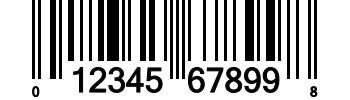
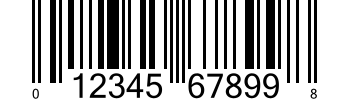
Fixes issue #1 - Upgrade SixLabors.ImageSharp (#2)
* Fixes issue #1 - Upgrade SixLabors.ImageSharp
There are some behavior differences with the newer version of ImageSharp which appears to implement the Pen differently when drawing text.
Removing the Pen instance fixes the drawing difference, though older images may appear more bold.

* removed .net8.0 build requirement, .net6 is the minimum required.

Changed region(s): [[0.1429, 0.6, 0.9143, 0.99], [0.0857, 0.78, 0.1143, 0.99]]

diff --git a/AnyBarcode/AnyBarcode/LabelWriter.cs b/AnyBarcode/AnyBarcode/LabelWriter.cs
@@ -39,20 +39,18 @@ namespace AnyBarcode
                 // draw datastring under the barcode image centered
                 var text = barcode.AlternateLabel == null ? barcode.Data : barcode.AlternateLabel;
                 var pos = new Point((int)(img.Width / 2f), img.Height - (int)fontDimensions.Height + 1);
-                var textOptions = new TextOptions(font)
+                var textOptions = new RichTextOptions(font)
                 {
                     HorizontalAlignment = HorizontalAlignment.Center,
                     Dpi = barcode.HoritontalResolution,
                     Origin = new System.Numerics.Vector2(pos.X, pos.Y)
                 };
-                //img.Mutate(c => c.DrawText(_drawingOptions, textOptions, text, barcode.ForeColor, new Point((int)(img.Width / 2f), img.Height - (int)fontDimensions.Height + 1)));
                 var brush = new SolidBrush(barcode.ForeColor);
-                img.Mutate(c => c.DrawText(_drawingOptions, textOptions, text, brush, Pens.Solid(barcode.ForeColor, 1)));
 
+                img.Mutate(c => c.DrawText(_drawingOptions, textOptions, text, brush, null));
 
-                // bottom                
-                img.Mutate(c => c.DrawLines(_drawingOptions, Pens.Solid(barcode.ForeColor, img.Height / 16f), new Point(0, img.Height - (int)fontDimensions.Height - 2), new Point(img.Width, img.Height - (int)fontDimensions.Height - 2)));
-                //pen.Alignment = PenAlignment.Inset;
+                // bottom
+                img.Mutate(c => c.DrawLine(_drawingOptions, Pens.Solid(barcode.ForeColor, img.Height / 16f), new Point(0, img.Height - (int)fontDimensions.Height - 2), new Point(img.Width, img.Height - (int)fontDimensions.Height - 2)));
 
                 return img;
             }
@@ -72,7 +70,7 @@ namespace AnyBarcode
             try
             {
                 var font = barcode.LabelFont;
-                var textOptions = new TextOptions(font)
+                var textOptions = new RichTextOptions(font)
                 {
                     HorizontalAlignment = HorizontalAlignment.Left,
                     VerticalAlignment = VerticalAlignment.Top,
@@ -128,8 +126,8 @@ namespace AnyBarcode
                 // draw datastring under the barcode image
                 var text = barcode.AlternateLabel == null ? barcode.Data : barcode.AlternateLabel;
                 var pos = new Point(img.Width, (int)fontDimensions.Height);
-                textOptions.Origin = pos;               
-                img.Mutate(c => c.DrawText(_drawingOptions, textOptions, text, new SolidBrush(barcode.ForeColor), Pens.Solid(barcode.ForeColor, 1)));
+                textOptions.Origin = pos;
+                img.Mutate(c => c.DrawText(_drawingOptions, textOptions, text, new SolidBrush(barcode.ForeColor), null));
 
                 return img;
             }
@@ -189,19 +187,19 @@ namespace AnyBarcode
                 // Draw datastring under the barcode image
                 var smallFont = new Font(labelFont, labelFont.Size * SmallFontScale * Barcode.DotsPerPointAt96Dpi, fontStyle);
                 var smallFontDimensions = GetFontDimensions(barcode, smallFont);
-                var textOptions = new TextOptions(smallFont)
+                var textOptions = new RichTextOptions(smallFont)
                 {
                     HorizontalAlignment = HorizontalAlignment.Left,
                     VerticalAlignment = VerticalAlignment.Top,
                     Dpi = barcode.HoritontalResolution,
                 };
                 textOptions.Origin = new Point((int)s1, (int)(img.Height - (smallFontDimensions.Height * 0.9f)));
-                img.Mutate(c => c.DrawText(_drawingOptions, textOptions, text.Substring(0, 1), Brushes.Solid(barcode.ForeColor), Pens.Solid(barcode.ForeColor, 1)));
+                img.Mutate(c => c.DrawText(_drawingOptions, textOptions, text.Substring(0, 1), Brushes.Solid(barcode.ForeColor), null));
                 textOptions.Origin = new Point((int)s2, (int)labelY);
                 textOptions.Font = labelFont;
-                img.Mutate(c => c.DrawText(_drawingOptions, textOptions, text.Substring(1, 6), Brushes.Solid(barcode.ForeColor), Pens.Solid(barcode.ForeColor, 1)));
+                img.Mutate(c => c.DrawText(_drawingOptions, textOptions, text.Substring(1, 6), Brushes.Solid(barcode.ForeColor), null));
                 textOptions.Origin = new Point((int)s3 - barWidth, (int)labelY);
-                img.Mutate(c => c.DrawText(_drawingOptions, textOptions, text.Substring(7), Brushes.Solid(barcode.ForeColor), Pens.Solid(barcode.ForeColor, 1)));
+                img.Mutate(c => c.DrawText(_drawingOptions, textOptions, text.Substring(7), Brushes.Solid(barcode.ForeColor), null));
 
                 return img;
             }
@@ -266,23 +264,30 @@ namespace AnyBarcode
                 var smallFont = new Font(labelFont, labelFont.Size * SmallFontScale * Barcode.DotsPerPointAt96Dpi, fontStyle);
                 var smallFontDimensions = GetFontDimensions(barcode, smallFont);
 
-                var textOptions = new TextOptions(smallFont)
+                var textOptions = new RichTextOptions(smallFont)
                 {
                     HorizontalAlignment = HorizontalAlignment.Left,
                     VerticalAlignment = VerticalAlignment.Top,
                     Dpi = barcode.HoritontalResolution,
                 };
 
+                // draw far left number
                 textOptions.Origin = new Point((int)s1, img.Height - (int)smallFontDimensions.Height);
-                img.Mutate(c => c.DrawText(_drawingOptions, textOptions, text.Substring(0, 1), Brushes.Solid(barcode.ForeColor), Pens.Solid(barcode.ForeColor, 1)));
+                img.Mutate(c => c.DrawText(_drawingOptions, textOptions, text.Substring(0, 1), Brushes.Solid(barcode.ForeColor), null));
+
+                // draw group 1 number
                 textOptions.Origin = new Point((int)s2 - barWidth + largeShiftAdjustment, (int)labelY);
                 textOptions.Font = labelFont;
-                img.Mutate(c => c.DrawText(_drawingOptions, textOptions, text.Substring(1, 5), Brushes.Solid(barcode.ForeColor), Pens.Solid(barcode.ForeColor, 1)));
+                img.Mutate(c => c.DrawText(_drawingOptions, textOptions, text.Substring(1, 5), Brushes.Solid(barcode.ForeColor), null));
+
+                // draw group 2 number
                 textOptions.Origin = new Point((int)s3 - barWidth + largeShiftAdjustment, (int)labelY);
-                img.Mutate(c => c.DrawText(_drawingOptions, textOptions, text.Substring(6, 5), Brushes.Solid(barcode.ForeColor), Pens.Solid(barcode.ForeColor, 1)));
+                img.Mutate(c => c.DrawText(_drawingOptions, textOptions, text.Substring(6, 5), Brushes.Solid(barcode.ForeColor), null));
+                
+                // draw far right number
                 textOptions.Origin = new Point((int)s4, img.Height - (int)smallFontDimensions.Height);
                 textOptions.Font = smallFont;
-                img.Mutate(c => c.DrawText(_drawingOptions, textOptions, text.Substring(11), Brushes.Solid(barcode.ForeColor), Pens.Solid(barcode.ForeColor, 1)));
+                img.Mutate(c => c.DrawText(_drawingOptions, textOptions, text.Substring(11), Brushes.Solid(barcode.ForeColor), null));
 
                 return img;
             }
@@ -298,7 +303,7 @@ namespace AnyBarcode
             {
                 Dpi = barcode.HoritontalResolution
             };
-            return TextMeasurer.Measure("ABCDEFGHIJKLMNOPQRSTUVWXYZ0123456789", textOptions);
+            return TextMeasurer.MeasureSize("ABCDEFGHIJKLMNOPQRSTUVWXYZ0123456789", textOptions);
         }
 
         public static float GetFontsize(Barcode barcode, int width, int height, string label)
@@ -317,7 +322,7 @@ namespace AnyBarcode
                     };
 
                     // See how much space the text would need, specifying a maximum width.
-                    var lineBounds = TextMeasurer.Measure(label, textOptions);
+                    var lineBounds = TextMeasurer.MeasureSize(label, textOptions);
                     if ((lineBounds.Width > width) || (lineBounds.Height > height))
                     {
                         fontSize = i - 1;

diff --git a/AnyBarcode/AnyBarcode/Barcode.cs b/AnyBarcode/AnyBarcode/Barcode.cs
@@ -544,7 +544,7 @@ namespace AnyBarcode
                             {
                                 var startPoint = new Point((pos * barWidth) + shiftAdjustment + bearerwidth + iquietzone, 0);
                                 var endPoint = new Point((pos * barWidth) + shiftAdjustment + bearerwidth + iquietzone, Height);
-                                image.Mutate(c => c.DrawLines(pen, startPoint, endPoint));
+                                image.Mutate(c => c.DrawLine(pen, startPoint, endPoint));
                             }
 
                             pos++;
@@ -553,10 +553,10 @@ namespace AnyBarcode
                         // bearer bars
                         pen = Pens.Solid(ForeColor, ilHeight / 8f);
 
-                        image.Mutate(c => c.DrawLines(pen, new PointF(0, 0), new PointF(image.Width, 0))); // top
-                        image.Mutate(c => c.DrawLines(pen, new PointF(0, ilHeight), new PointF(image.Width, ilHeight))); // bottom
-                        image.Mutate(c => c.DrawLines(pen, new PointF(0, 0), new PointF(0, ilHeight))); // left
-                        image.Mutate(c => c.DrawLines(pen, new PointF(image.Width, 0), new PointF(image.Width, ilHeight))); // right
+                        image.Mutate(c => c.DrawLine(pen, new PointF(0, 0), new PointF(image.Width, 0))); // top
+                        image.Mutate(c => c.DrawLine(pen, new PointF(0, ilHeight), new PointF(image.Width, ilHeight))); // bottom
+                        image.Mutate(c => c.DrawLine(pen, new PointF(0, 0), new PointF(0, ilHeight))); // left
+                        image.Mutate(c => c.DrawLine(pen, new PointF(image.Width, 0), new PointF(image.Width, ilHeight))); // right
 
                         if (IncludeLabel)
                             LabelWriter.LabelITF14<TPixel>(this, image);
@@ -644,7 +644,7 @@ namespace AnyBarcode
                             {
                                 var startPoint = new PointF(pos * barWidth + shiftAdjustment + halfBarWidth, topLabelAdjustment);
                                 var endPoint = new PointF(pos * barWidth + shiftAdjustment + halfBarWidth, ilHeight + topLabelAdjustment);
-                                image.Mutate(c => c.DrawLines(options, pen, startPoint, endPoint));
+                                image.Mutate(c => c.DrawLine(options, pen, startPoint, endPoint));
                             }
 
                             pos++;
@@ -738,7 +738,7 @@ namespace AnyBarcode
                             {
                                 var startPoint = new PointF(pos * iBarWidth + shiftAdjustment + halfBarWidth, topLabelAdjustment);
                                 var endPoint = new PointF(pos * iBarWidth + shiftAdjustment + halfBarWidth, ilHeight + topLabelAdjustment);
-                                image.Mutate(c => c.DrawLines(pen, startPoint, endPoint));
+                                image.Mutate(c => c.DrawLine(pen, startPoint, endPoint));
                             }
 
                             pos++;
@@ -824,13 +824,13 @@ namespace AnyBarcode
                                 {
                                     var startPoint = new PointF(pos * iBarWidth + shiftAdjustment + halfBarWidth, ilHeight + topLabelAdjustment);
                                     var endPoint = new PointF(pos * iBarWidth + shiftAdjustment + halfBarWidth, (ilHeight / 2) + topLabelAdjustment);
-                                    image.Mutate(c => c.DrawLines(pen, startPoint, endPoint));
+                                    image.Mutate(c => c.DrawLine(pen, startPoint, endPoint));
                                 }
                                 else
                                 {
                                     var startPoint = new PointF(pos * iBarWidth + shiftAdjustment + halfBarWidth, ilHeight + topLabelAdjustment);
                                     var endPoint = new PointF(pos * iBarWidth + shiftAdjustment + halfBarWidth, topLabelAdjustment);
-                                    image.Mutate(c => c.DrawLines(pen, startPoint, endPoint));
+                                    image.Mutate(c => c.DrawLine(pen, startPoint, endPoint));
                                 }
                             }
                             else
@@ -839,7 +839,7 @@ namespace AnyBarcode
                                 {
                                     var startPoint = new PointF(pos * iBarWidth + shiftAdjustment + halfBarWidth, topLabelAdjustment);
                                     var endPoint = new PointF(pos * iBarWidth + shiftAdjustment + halfBarWidth, ilHeight + topLabelAdjustment);
-                                    image.Mutate(c => c.DrawLines(pen, startPoint, endPoint));
+                                    image.Mutate(c => c.DrawLine(pen, startPoint, endPoint));
                                 }
                             }
                             pos++;

diff --git a/AnyBarcode/AnyBarcodeTests/BarcodeTests.cs b/AnyBarcode/AnyBarcodeTests/BarcodeTests.cs
@@ -39,9 +39,11 @@ namespace AnyBarcodeTests
             
             if (ValidateImages)
                 AssertValidateImageEquality(path, stream);
-            else { 
+            else {
                 // everything is fine if no exceptions are thrown
+#pragma warning disable CS0162 // Unreachable code detected
                 Assert.Pass();
+#pragma warning restore CS0162 // Unreachable code detected
             }
         }
 
@@ -60,7 +62,9 @@ namespace AnyBarcodeTests
             else
             {
                 // everything is fine if no exceptions are thrown
+#pragma warning disable CS0162 // Unreachable code detected
                 Assert.Pass();
+#pragma warning restore CS0162 // Unreachable code detected
             }
         }
 
@@ -72,7 +76,9 @@ namespace AnyBarcodeTests
             if (!WriteImages)
                 return pathToFile;
 
+#pragma warning disable CS0162 // Unreachable code detected
             var path = Path.GetDirectoryName(pathToFile);
+#pragma warning restore CS0162 // Unreachable code detected
             if (!Directory.Exists(path))
                 Directory.CreateDirectory(path);
             File.WriteAllBytes(pathToFile, stream.ToArray());
@@ -91,7 +97,7 @@ namespace AnyBarcodeTests
             var referenceBytes = File.ReadAllBytes(path);
             referenceImage.Write(referenceBytes, 0, referenceBytes.Length);
             var areEqual = ImageValidator.AreEqual(referenceImage, generatedImage);
-            Assert.IsTrue(areEqual);
+            Assert.That(areEqual, Is.True);
             return areEqual;
         }
 
@@ -108,7 +114,7 @@ namespace AnyBarcodeTests
             var referenceBytes = File.ReadAllBytes(path);
             referenceImage.Write(referenceBytes, 0, referenceBytes.Length);
             var areSimilar = ImageValidator.AreSimilar(referenceImage, generatedImage, maxDiffPercent);
-            Assert.IsTrue(areSimilar);
+            Assert.That(areSimilar, Is.True);
             return areSimilar;
         }
     }

diff --git a/AnyBarcode/AnyBarcode/BarcodeException.cs b/AnyBarcode/AnyBarcode/BarcodeException.cs
@@ -1,6 +1,4 @@
-using System.Runtime.Serialization;
-
-namespace AnyBarcode
+namespace AnyBarcode
 {
     [Serializable]
     public class BarcodeException : Exception
@@ -14,10 +12,6 @@ namespace AnyBarcode
         }
 
         public BarcodeException(string message, Exception innerException) : base(message, innerException)
-        {
-        }
-
-        protected BarcodeException(SerializationInfo info, StreamingContext context) : base(info, context)
         {
         }
     }

diff --git a/AnyBarcode/AnyBarcodeTests/Symbologies/Code128Tests.cs b/AnyBarcode/AnyBarcodeTests/Symbologies/Code128Tests.cs
@@ -40,7 +40,7 @@ namespace AnyBarcodeTests.Symbologies
                 catch when (expected == null)
                 {
                 }
-                Assert.AreEqual(expected, actual, $"{type}");
+                Assert.That(expected, Is.EqualTo(actual), $"{type}");
             }
         }
     }
